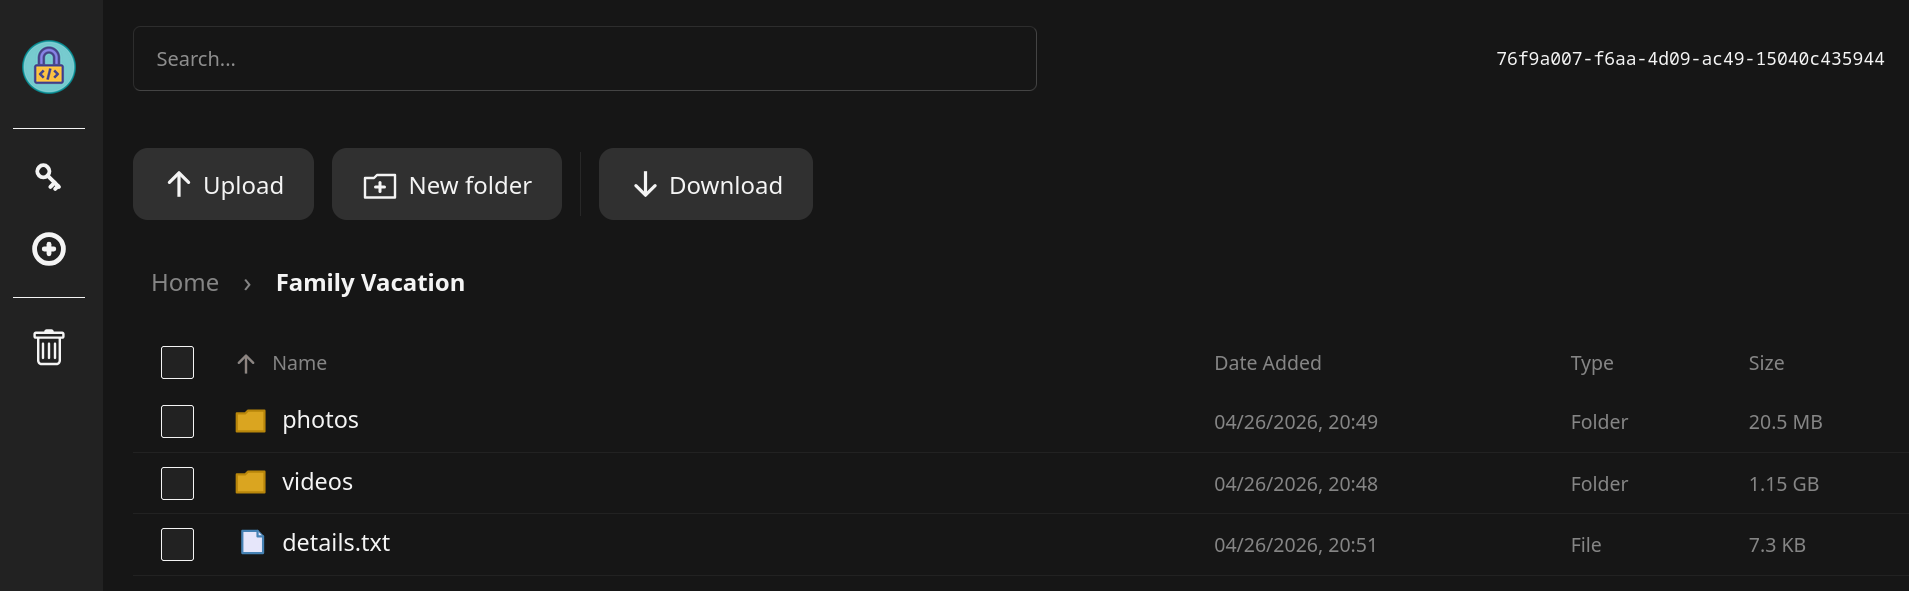
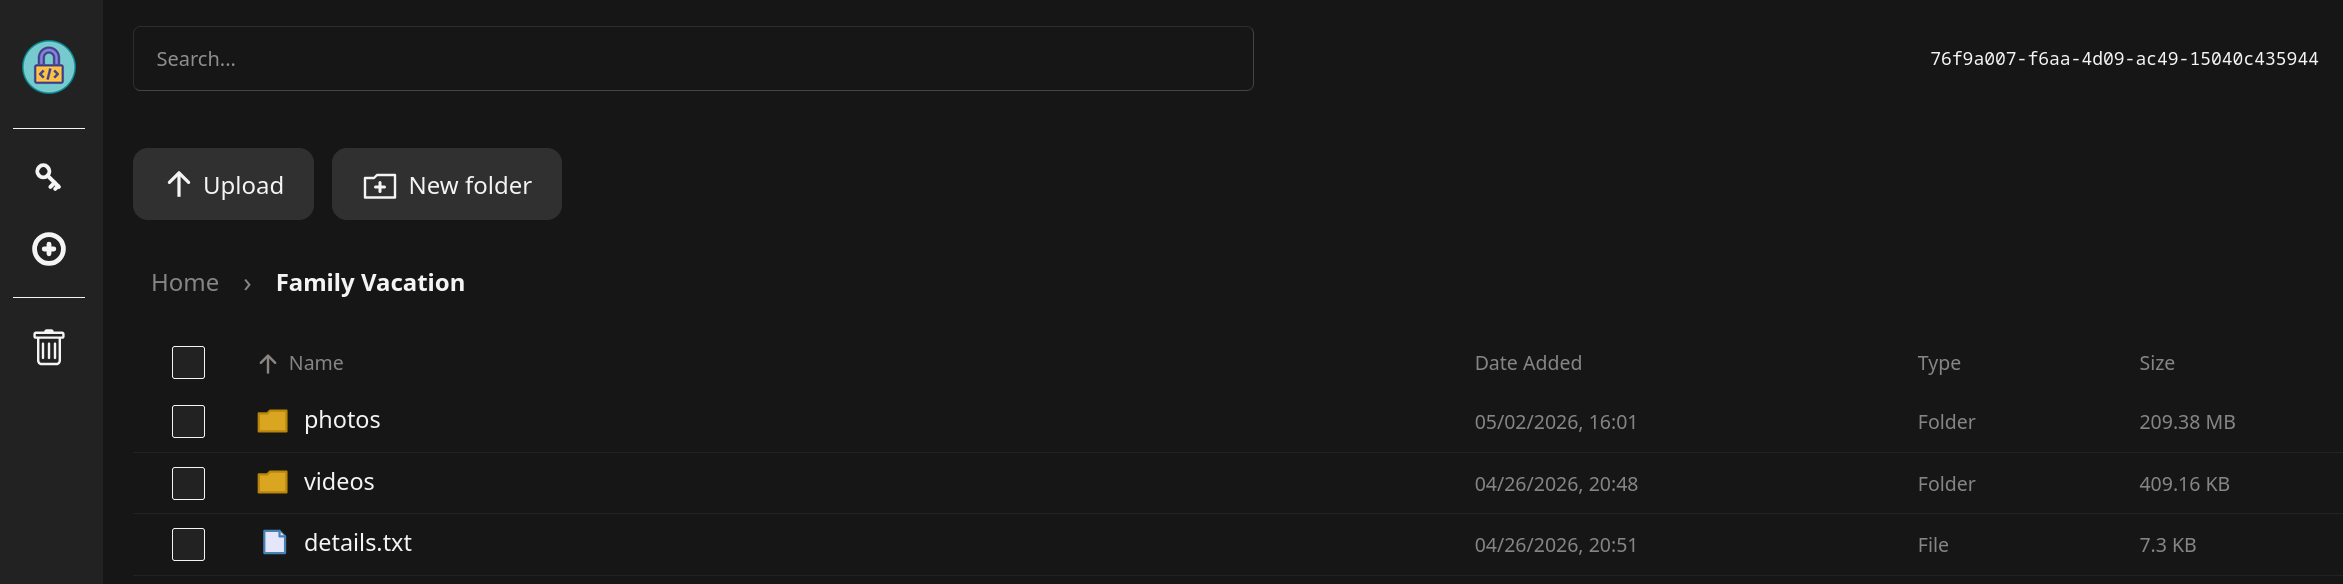
Update README

diff --git a/README.md b/README.md
@@ -8,7 +8,7 @@ Existing features include:
 
 - **File Content Encryption:** All files are encrypted with cryptographically random, unique keys before leaving the browser.
 - **File System Encryption:** Directory structures are obfuscated using a **Merkle tree** and stored using **hash sharding**.
-- **Zero-Knowledge Backend:** The server acts purely as a blob store with no knowledge of stored files.
+- **Zero-Knowledge Backend:** The server acts as a blob store with no knowledge on stored files.
 - **WebUI:** Native browser interface for uploading, managing, and previewing files.
 
 ## Cryptographic Architecture
@@ -17,7 +17,7 @@ ExoServe utilizes a strict separation of concerns to maintain privacy. The front
 
 ### The Zero-Knowledge Server
 
-The server has no knowledge of the file topology, file names, nor file types. When a user uploads a file or creates a folder, the server only receives an encrypted binary blob and a cryptographic hash. The server simply saves the blob and returns it when requested. If the server host is compromised, the attacker only gains access to encrypted binary.
+The server has no knowledge of the file topology, file names, nor file types. When a user uploads a file or creates a folder, the server only receives an encrypted binary blob and a cryptographic hash. The server saves the blob and returns it when requested. If the server host is compromised, the attacker only gains access to encrypted binary.
 
 ### File System & Merkle Tree
 
@@ -45,7 +45,8 @@ ExoServe features a lightweight, responsive WebUI built entirely in vanilla Java
 
 - breadcrumb navigation,
 - column sorting,
-- and folder management,
+- folder management,
+- and right-click context menu,
 
 All while operating strictly within a zero-knowledge paradigm.
 
@@ -76,15 +77,18 @@ Future updates to the authentication system will introduce tiered security optio
 
 Special care was used to ensure the stack remains lightweight, dependency-free where possible, and highly customizable.
 
-- **Frontend:** Built with **Vanilla JS**, HTML, and CSS. No heavy frameworks (like React or Vue) or package managers (like npm) are required. The native Web Crypto API is used for all hashing and AES encryption.
+- **Frontend:** Built with **Vanilla JS**, HTML, and CSS. No heavy framework or package managers are required. The native Web Crypto API is used for all hashing and AES encryption.
 - **Backend:** Built with **Python Flask**. Keeps the server logic simple, readable, and highly extensible for home lab environments.
 
 ## The Fine Print
 
-While the server has zero knowledge of file contents, file names, and directory topology, metadata could be ascertained by monitoring live network traffic or observing file attributes.
+While the server has zero knowledge at rest (file contents, file names, and directory topology), metadata could be ascertained while the data is in transit by monitoring live network traffic.
 
-For example, assume there is a 400 MB file that a client is streaming in small chunks. A bad actor could conclude that the encrypted blob is some video. Likewise, the bad actor can conclude that the previous hash accessed using the `/node` route is the directory containing that video file.
+This is a standard convenience-versus-security tradeoff. The alternative is to:
 
-Despite this, the bad actor cannot conclude the contents or exact file format from this metadata. Furthermore, the body of each request is not logged or otherwise stored on disk under normal configuration. This means that the malicious networking monitoring would need to occur as the client is active or the server would need to be previously compromised.
+- Have the client wholly download all files to mitigate streaming metadata leakage.
+- Chunk files on the server to mitigate file size metadata leakage.
+- Generate dummy traffic to obfuscate sequentially requested chunks being related.
+- Throttle requests to a constant bitrate to mitigte rapidly requested chunks being related
 
-This is a standard convenience-versus-security tradeoff; the alternative is to have the client wholly download all files, including video files. It is not currently on the roadmap to allow the user to make this decision, since the experience would be sluggish and still leaves the file size as a point of metadata.
+This design is not currently on the roadmap, since the experience would be sluggish.
